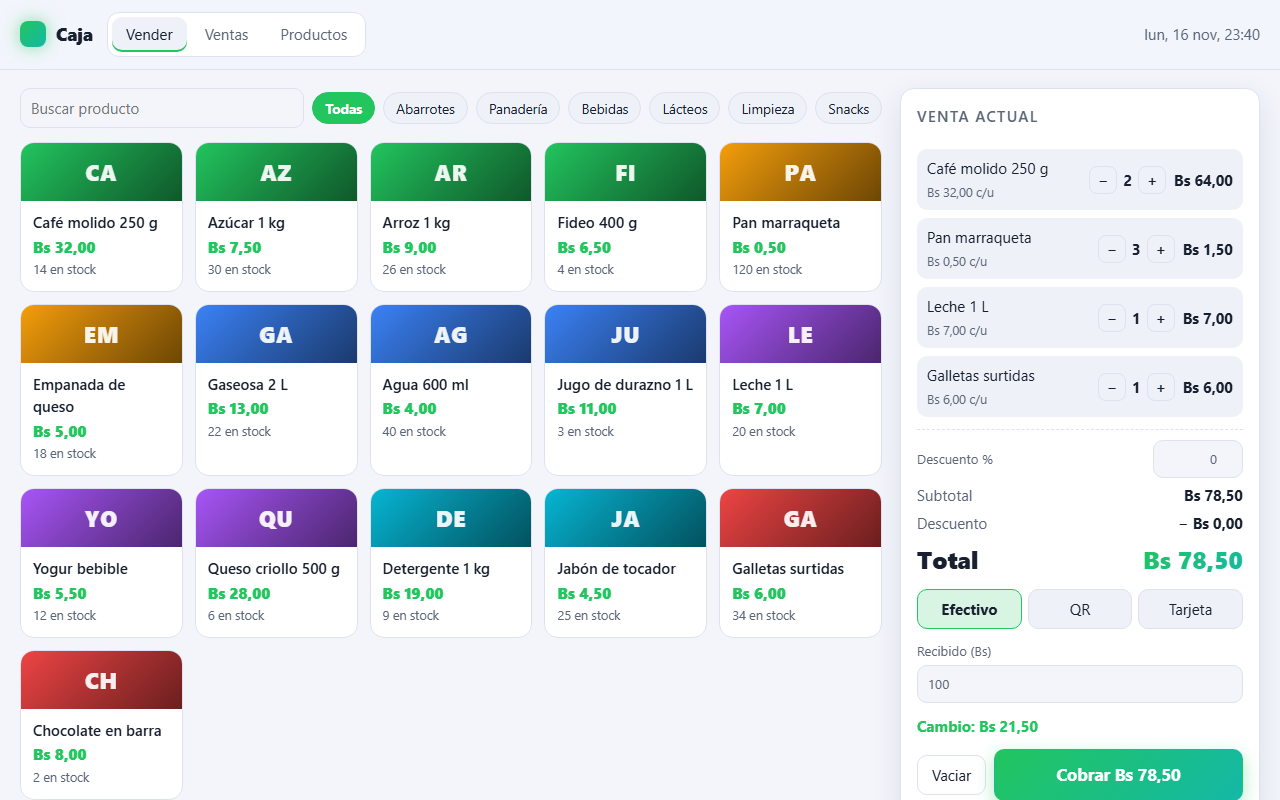
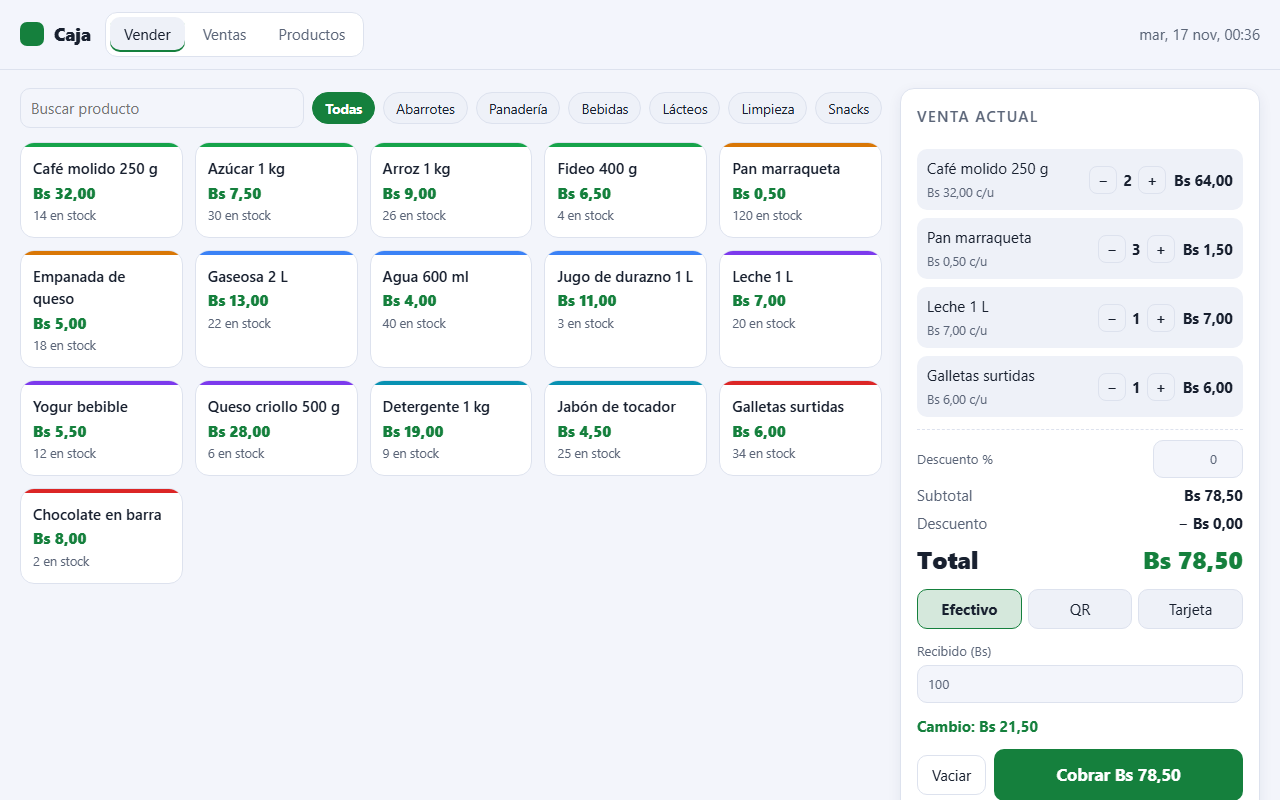
Estilo sobrio: un solo color de acento, sin degradados ni brillos

diff --git a/base.css b/base.css
@@ -7,18 +7,18 @@
   --suave: #93a0b8;
   --borde: #26314b;
   --acento: #22c55e;
-  --acento-2: #14b8a6;
+  --acento-2: var(--acento); /* un solo color de acento: sin degradados */
   --sobre-acento: #04130a;
   --peligro: #f87171;
   --aviso: #fbbf24;
   --radio: 14px;
-  --sombra: 0 10px 30px rgba(0, 0, 0, .35);
+  --sombra: 0 4px 14px rgba(0, 0, 0, .25);
   color-scheme: dark;
 }
 @media (prefers-color-scheme: light) {
   :root:not([data-tema='oscuro']) {
     --fondo: #f3f5fb; --panel: #ffffff; --panel-2: #eef1f8; --texto: #18202f; --suave: #5b6578; --borde: #dde2ee;
-    --sombra: 0 10px 30px rgba(30, 40, 80, .10); --sobre-acento: #ffffff; color-scheme: light;
+    --sombra: 0 4px 14px rgba(30, 40, 80, .07); --sobre-acento: #ffffff; --acento: #15803d; color-scheme: light;
   }
 }
 * { box-sizing: border-box; }
@@ -30,7 +30,8 @@ button { cursor: pointer; border: 1px solid var(--borde); background: var(--pane
 button:hover:not(:disabled) { border-color: var(--acento); transform: translateY(-1px); }
 button:active:not(:disabled) { transform: translateY(1px) scale(.98); }
 button:disabled { opacity: .45; cursor: not-allowed; }
-button.principal { background: linear-gradient(135deg, var(--acento), var(--acento-2)); color: var(--sobre-acento); border-color: transparent; font-weight: 700; box-shadow: 0 6px 18px color-mix(in srgb, var(--acento) 35%, transparent); }
+button.principal { background: var(--acento); color: var(--sobre-acento); border-color: transparent; font-weight: 700; }
+button.principal:hover:not(:disabled) { filter: brightness(1.07); }
 button.fantasma { background: transparent; }
 button.chico { padding: 4px 10px; font-size: .85rem; }
 input, select, textarea { background: var(--fondo); border: 1px solid var(--borde); border-radius: 10px; padding: 8px 10px; min-width: 0; transition: border-color .2s, box-shadow .2s; }
@@ -39,7 +40,7 @@ label { display: flex; flex-direction: column; gap: 4px; font-size: .82rem; colo
 
 .barra-superior { position: sticky; top: 0; z-index: 5; display: flex; align-items: center; gap: 14px; padding: 12px 20px; background: color-mix(in srgb, var(--fondo) 82%, transparent); backdrop-filter: blur(10px); border-bottom: 1px solid var(--borde); }
 .marca { display: flex; align-items: center; gap: 10px; font-weight: 800; font-size: 1.1rem; letter-spacing: .2px; }
-.marca i { width: 26px; height: 26px; border-radius: 8px; background: linear-gradient(135deg, var(--acento), var(--acento-2)); display: inline-block; box-shadow: 0 0 18px color-mix(in srgb, var(--acento) 55%, transparent); }
+.marca i { width: 24px; height: 24px; border-radius: 7px; background: var(--acento); display: inline-block; }
 .espacio { flex: 1; }
 .pestanas { display: flex; gap: 4px; background: var(--panel); border: 1px solid var(--borde); border-radius: 12px; padding: 4px; }
 .pestanas button { border: 0; background: transparent; color: var(--suave); padding: 6px 14px; }
@@ -59,7 +60,7 @@ td.num, th.num { text-align: right; font-variant-numeric: tabular-nums; }
 
 .kpis { display: grid; grid-template-columns: repeat(auto-fit, minmax(170px, 1fr)); gap: 12px; }
 .kpi { background: var(--panel); border: 1px solid var(--borde); border-radius: var(--radio); padding: 14px 16px; position: relative; overflow: hidden; }
-.kpi::before { content: ''; position: absolute; inset: 0 auto 0 0; width: 4px; background: linear-gradient(var(--acento), var(--acento-2)); }
+.kpi::before { content: ''; position: absolute; inset: 0 auto 0 0; width: 3px; background: var(--acento); }
 .kpi b { display: block; font-size: 1.6rem; font-variant-numeric: tabular-nums; }
 .kpi span { color: var(--suave); font-size: .82rem; }
 
@@ -70,8 +71,8 @@ td.num, th.num { text-align: right; font-variant-numeric: tabular-nums; }
 .aviso-flotante.error { border-left-color: var(--peligro); }
 
 @keyframes aparecer { from { opacity: 0; } to { opacity: 1; } }
-@keyframes subir { from { opacity: 0; transform: translateY(14px); } to { opacity: 1; transform: none; } }
-@keyframes pulso { 0% { transform: scale(1); } 40% { transform: scale(1.06); } 100% { transform: scale(1); } }
+@keyframes subir { from { opacity: 0; transform: translateY(8px); } to { opacity: 1; transform: none; } }
+@keyframes pulso { 0% { transform: scale(1); } 40% { transform: scale(1.03); } 100% { transform: scale(1); } }
 .entra { animation: subir .35s cubic-bezier(.2, .8, .2, 1) both; }
 .pulso { animation: pulso .3s ease; }
 @media (prefers-reduced-motion: reduce) { *, *::before, *::after { animation: none !important; transition: none !important; scroll-behavior: auto !important; } }

diff --git a/estilos.css b/estilos.css
@@ -6,8 +6,9 @@ main { max-width: 1280px; margin: 0 auto; padding: 18px 20px 40px; }
 #categorias button[aria-pressed='true'] { background: var(--acento); color: var(--sobre-acento); border-color: var(--acento); font-weight: 700; }
 .rejilla { display: grid; grid-template-columns: repeat(auto-fill, minmax(150px, 1fr)); gap: 12px; }
 .producto { text-align: left; padding: 0; overflow: hidden; background: var(--panel); border-radius: var(--radio); display: flex; flex-direction: column; }
-.producto:hover:not(:disabled) { box-shadow: 0 10px 26px color-mix(in srgb, var(--c, var(--acento)) 30%, transparent); border-color: var(--c, var(--acento)); }
-.producto .color { height: 58px; background: linear-gradient(135deg, var(--c), color-mix(in srgb, var(--c) 45%, #000)); display: grid; place-items: center; font-weight: 800; font-size: 1.35rem; color: rgba(255, 255, 255, .92); letter-spacing: 1px; }
+.producto:hover:not(:disabled) { box-shadow: var(--sombra); border-color: var(--acento); }
+/* Una franja fina con el color de la categoría; las iniciales ya no se muestran. */
+.producto .color { height: 4px; background: var(--c); font-size: 0; }
 .producto .info { padding: 10px 12px 12px; display: flex; flex-direction: column; gap: 2px; }
 .producto .nombre { font-weight: 600; }
 .producto .precio { font-weight: 800; color: var(--acento); font-variant-numeric: tabular-nums; }
@@ -24,7 +25,7 @@ main { max-width: 1280px; margin: 0 auto; padding: 18px 20px 40px; }
 .resumen > div { display: flex; justify-content: space-between; color: var(--suave); }
 .resumen > div b { color: var(--texto); font-variant-numeric: tabular-nums; }
 .resumen .total { font-size: 1.5rem; color: var(--texto); font-weight: 800; }
-.resumen .total b { background: linear-gradient(135deg, var(--acento), var(--acento-2)); -webkit-background-clip: text; background-clip: text; color: transparent; }
+.resumen .total b { color: var(--acento); }
 label.en-linea { flex-direction: row; align-items: center; justify-content: space-between; }
 label.en-linea input { width: 90px; text-align: right; }
 .metodos { display: grid; grid-template-columns: repeat(3, 1fr); gap: 6px; }
@@ -36,7 +37,7 @@ label.en-linea input { width: 90px; text-align: right; }
 .dos-columnas { display: grid; grid-template-columns: 2fr 1fr; gap: 14px; margin-top: 14px; align-items: start; }
 .barra-h { display: grid; grid-template-columns: 1fr auto; gap: 4px 10px; margin-bottom: 10px; }
 .barra-h i { grid-column: 1 / -1; height: 8px; border-radius: 99px; background: var(--panel-2); overflow: hidden; display: block; }
-.barra-h i::after { content: ''; display: block; height: 100%; width: var(--p); background: linear-gradient(90deg, var(--acento), var(--acento-2)); border-radius: 99px; transition: width .6s cubic-bezier(.2, .8, .2, 1); }
+.barra-h i::after { content: ''; display: block; height: 100%; width: var(--p); background: var(--acento); border-radius: 99px; transition: width .6s cubic-bezier(.2, .8, .2, 1); }
 
 .ticket { font-family: 'Cascadia Mono', Consolas, monospace; font-size: .86rem; background: #fff; color: #111; padding: 16px; border-radius: 8px; }
 .ticket h3 { text-align: center; margin-bottom: 4px; }

diff --git a/src/datos.js b/src/datos.js
@@ -1,7 +1,7 @@
 // Datos de ejemplo y guardado en el navegador (localStorage). Los precios van en centavos.
 const CLAVE = 'caja-pos-v1'
 
-const COLORES = { Bebidas: '#3b82f6', Panadería: '#f59e0b', Abarrotes: '#22c55e', Lácteos: '#a855f7', Limpieza: '#06b6d4', Snacks: '#ef4444' }
+const COLORES = { Bebidas: '#3b82f6', Panadería: '#d97706', Abarrotes: '#16a34a', Lácteos: '#7c3aed', Limpieza: '#0891b2', Snacks: '#dc2626' }
 export const colorDe = (categoria) => COLORES[categoria] ?? '#64748b'
 
 const p = (id, nombre, categoria, precio, stock) => ({ id, nombre, categoria, precio, stock })
